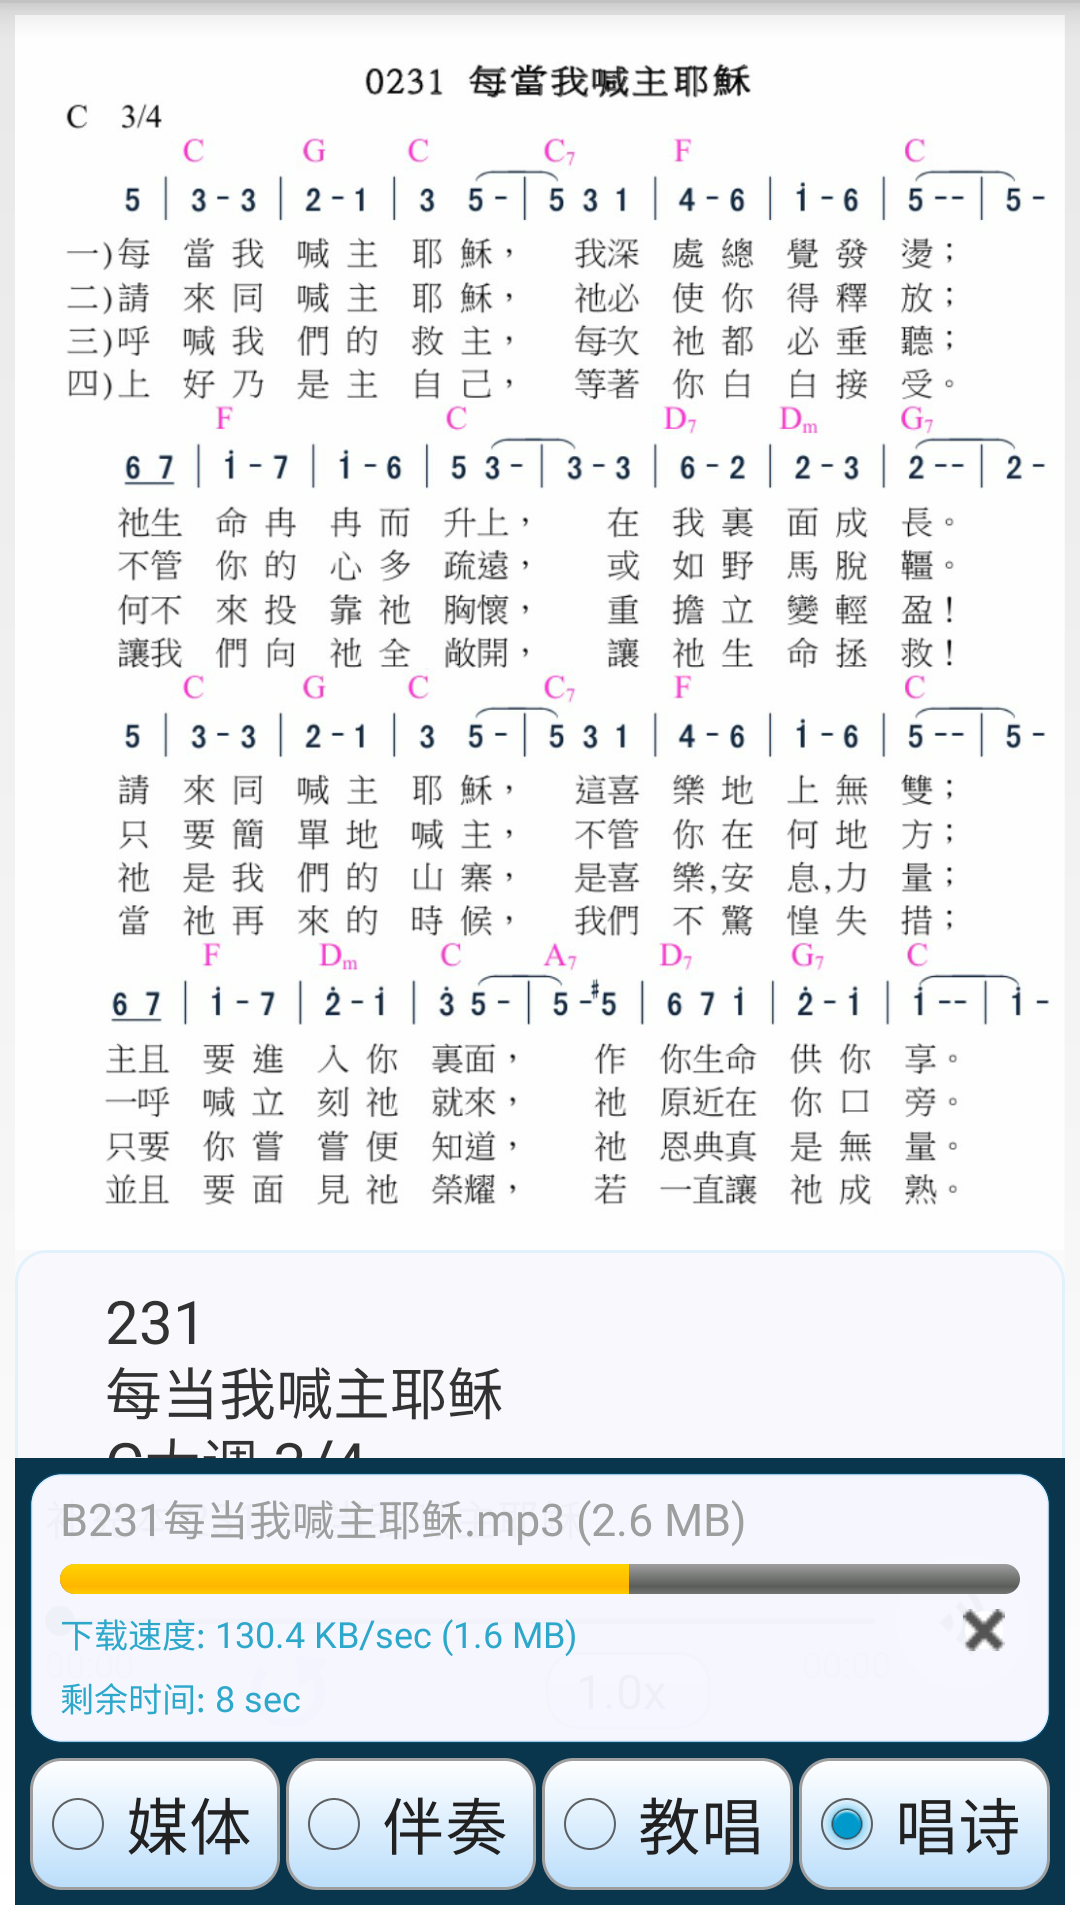
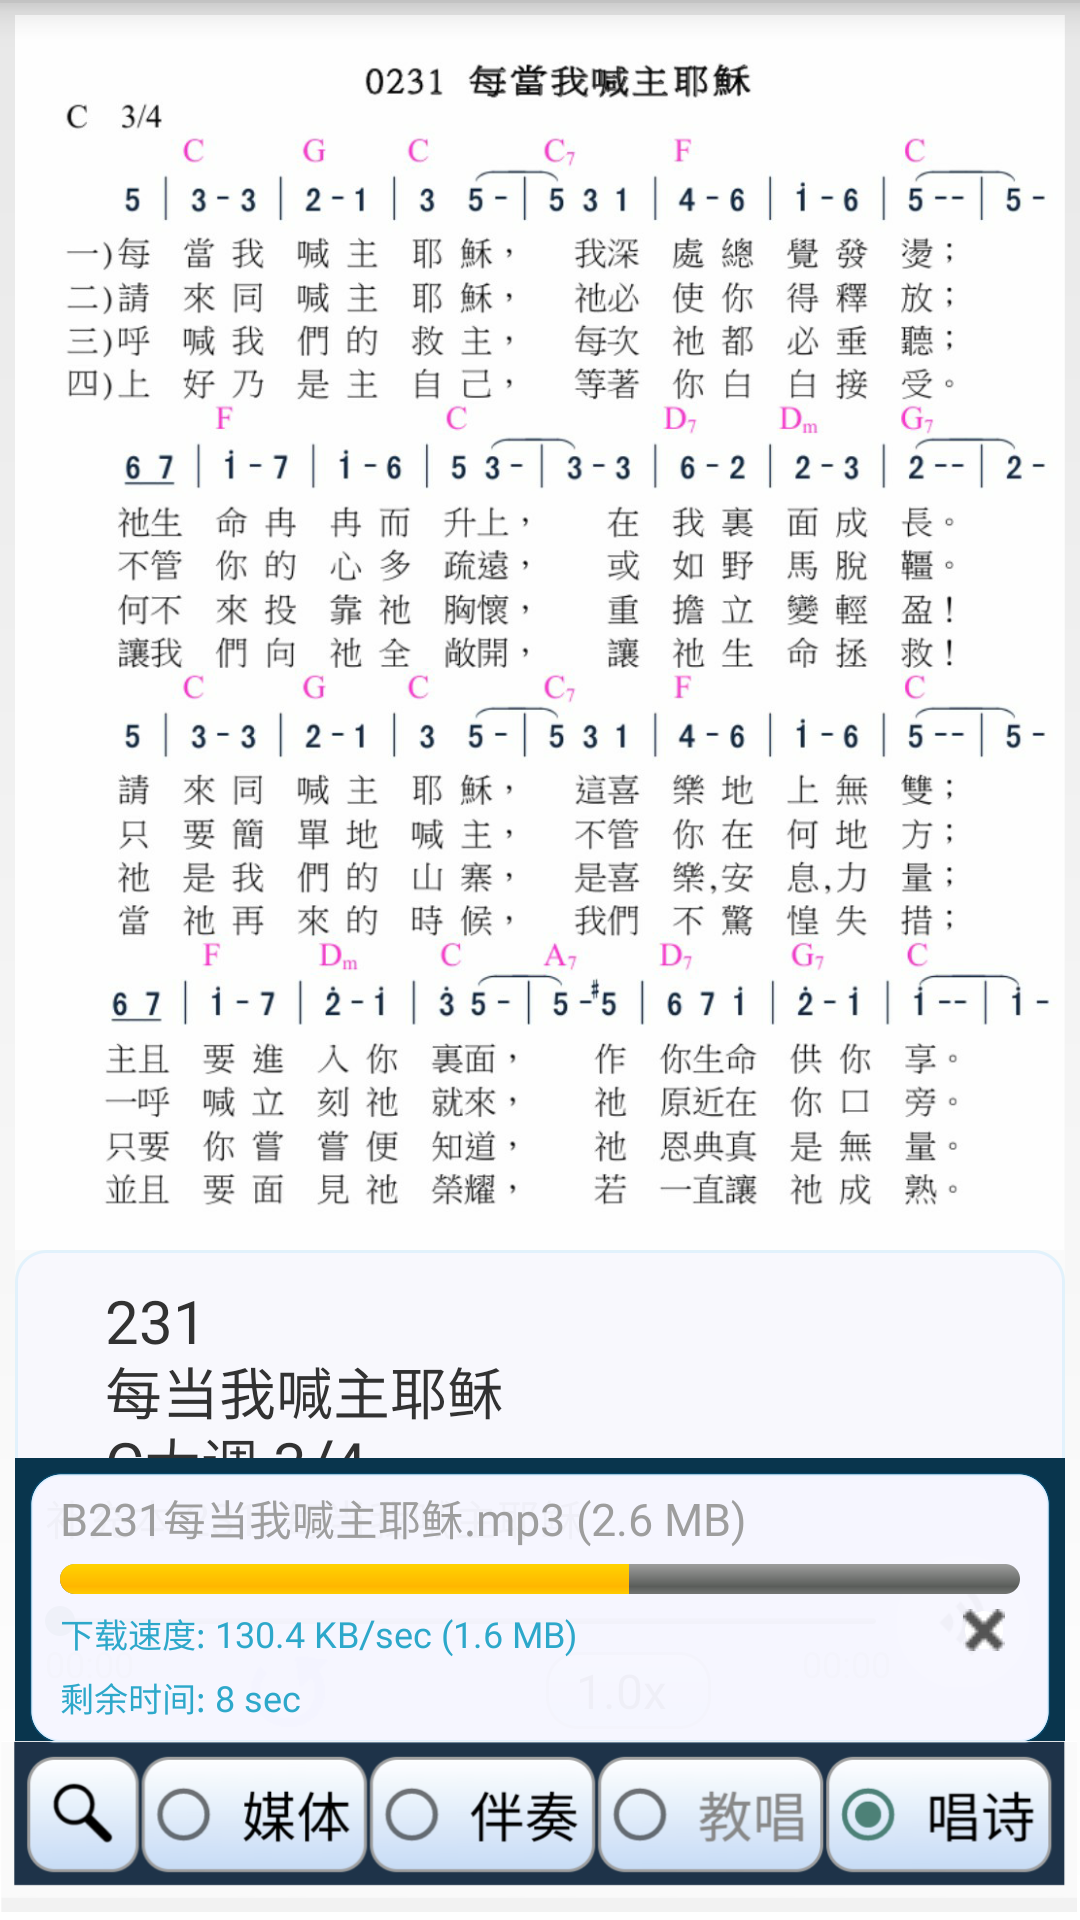
update info per v1.7.1 release

Changed region(s): [[0.0, 0.9062, 1.0, 1.0]]

diff --git a/hymnchtv/faq.html b/hymnchtv/faq.html
@@ -101,16 +101,16 @@ ul li {
        <li><a href=#hymnch_0030>[20201220] <b>Hymn Category</b> and <b>Content Search</b> result display</a></li>
      </ul>
      <ul>
-       <li><a href=#hymnch_0040>[20201222] Hymn lyrics and media player UI interface</a></li>
+       <li><a href=#hymnch_0040>[20220105] Hymn lyrics and media player UI interface</a></li>
      </ul>
      <ul>
-       <li><a href=#hymnch_0050>[20201229] Hymn media player UI interface, control and playback operations</a></li>
+       <li><a href=#hymnch_0050>[20220105] Hymn media player UI interface, control and playback operations</a></li>
      </ul>
      <ul>
        <li><a href=#hymnch_0060>[20201231] Hymn media storage and selection algorithm for playback</a></li>
      </ul>
      <ul>
-       <li><a href=#hymnch_0070>[20210801] User defined media configuration</a></li>
+       <li><a href=#hymnch_0070>[20220105] User defined media configuration</a></li>
      </ul>
      <ul>
        <li><a href=#hymnch_0080>[20210801] User defined media database configuration</a></li>
@@ -212,7 +212,7 @@ ul li {
    </div>
 
    <span id='hymnch_0040'></span>
-   <div class='blueText'>[20201222] Hymn lyrics and media player UI interface <a href=#content>{ Content }</a></div>
+   <div class='blueText'>[20220105] Hymn lyrics and media player UI interface <a href=#content>{ Content }</a></div>
    <div class='innerText'><image src="./img/11.hymnchtv_context_menu.png" align="right" width="25%" style="margin:5px 0px 20px 15px"/></div>
    <div class='innerText'>The screenshot on the right shows the hymn info display page after user has selected
      the desired HymnNo and HymnType. The window displays the actual hymn lyrics score, and the lyrics text just below
@@ -223,10 +223,14 @@ ul li {
        <li><b>默认显示播放条</b>: Always shows the Media Player UI interface on entry.</li>
        <li><b>默认隐藏播放条</b>: Always hides the Media Player UI interface on entry.</li>
        <li><b>显示/隐藏播放条</b>: Toggle to show/hide the Media Player UI interface.</li>
+       <li><b>歌词文字加大</b>: Click to increase the lyrics font size. New font size setting is saved and unique for
+         portrait and landscape, but applicable to all other hymnn titles.</li>
+       <li><b>歌词文字减小</b>:  Click to decrease the lyrics font size. New font size setting is saved and unique for
+         portrait and landscape, but applicable to all other hymnn titles.</li>
        <li><b>英文歌词</b>: This option is available only if the user selected HymnNo has an associated lyrics in English.
          Click on this option item opens the web page linked to the English lyrics. Press <b>BackKey</b> to go back.</li>
        <li><b>帮助</b>: clicks on this option item, hymnchtv will display the help content for:
-         <a href=#hymnch_0050>[20201222] Hymn media player UI interface, control and playback operations</a></li>
+         <a href=#hymnch_0050>Hymn media player UI interface, control and playback operations</a></li>
        <li><b>主页</b>: Returns user to the hymnchtv main UI page, or the Hymn Category selection page.</li>
      </ul>
      you may copy text diplays in lyrics text content. To do this, double quick clicks on the desired text location; 
@@ -234,17 +238,35 @@ ul li {
    </div>
 
    <span id='hymnch_0050'></span>
-   <div class='blueText'>[20201229] Hymn media player UI interface, control and playback operations <a href=#content>{ Content }</a></div>
+   <div class='blueText'>[20220105] Hymn media player UI interface, control and playback operations <a href=#content>{ Content }</a></div>
    <div class='innerText'>Beside showing the hymn lyrics of the user selected HymnNo, Hymnchtv allows the playback of the
      media content of the user selected HymnNo. Below lists the various hymn media available for the playback.
      <ul>
        <div class='innerText'><image src="./img/hymnchtv_media_player_ui.png" align="right" width="25%" style="margin:5px 0px 20px 15px"/></div>
+       <li><b>搜索</b>: Search the relevant contents for the user selected HymnNo per the button actions below:<br/></li>
+         <ul>
+           <li><b>singleTap</b> to perform hymn info search via qq.com; Will show the QQ main page if none found. You may
+           then navigate to the required hymn title for viewing, or share the link with hymnchtv for later retrieval. 
+           See also <a href=#hymnch_0070>User defined media configuration</a></li>
+           <li><b>longPress</b> to perform hymn info search via youtube.com</li>
+           <li><b>DoubleTap</b> to perform hymn info search via google.com</li>
+           <li>Note: The user selected HymnNo info is also copied to the clipboard. You may paste this clipboard
+             text into any of your preferred search engine to perform addtional content searching.</li>
+         </ul>
        <li><b>媒体</b>: User defined media contents; these may include video, audio and youtube/internet media url links.
-         The button text grayed out when there is no user media content defined in the database.</li>
+         Pending on the media type for video content, the player used for playback can either be exoplayer or youtube
+         player as shown on the right. The button text greyed out when there is no user media content defined in the
+         database.<br />
+         Note: LongPress on this button to show QQ-info main page; allowing user to enter QQ main page in case
+         the <b>搜索</b> failed.</li>
+       <div class='innerText'><image border="2px solid blue" src="./img/hymnchtv_media_player_youtube.png" align="right" width="25%" style="margin:5px 0px 20px 15px"/></div>
        <li><b>伴奏</b>: Hymn accompany music only media playback. The playback media can be using embedded midi files or
-         downloaded from the predefined site.</li>
-       <li><b>教唱</b>: Hymn singing practice. Currently this is only available for 大本诗歌 DaBen HymnType.</li>
-       <li><b>唱诗</b>: Hymn singing music with lyrics.</li>
+         downloaded from the predefined site. The button text greyed out when there is no user media content defined
+         in the database.</li>
+       <li><b>教唱</b>: Hymn singing practice. Currently this is only available for 大本诗歌 DaBen HymnType. The button
+         text greyed out when there is no user media content defined in the database.</li>
+       <li><b>唱诗</b>: Hymn singing music with lyrics. The button text greyed out when there is no user media content
+         defined in the database.</li>
        <li><b>Repeat/Loop Count</b>: Disable/Enable repeat playback with user defined loop count.</li>
        <li><b>Playback speed</b>: Variable playback speed. The available playback speed varies from 0.6x~1.4x of the
          orignal hymn tempo.</li>
@@ -327,7 +349,7 @@ ul li {
    </div>
 
    <span id='hymnch_0070'></span>
-   <div class='blueText'>[20210801] User defined media configuration <a href=#content>{ Content }</a></div>
+   <div class='blueText'>[20220105] User defined media configuration <a href=#content>{ Content }</a></div>
    <div class='innerText'>Hymnchtv allows user to define a given media content playback to be associated with a
      HymnType/MediaType/HymnNo. The media content can either be a local saved medium file, an url link of an online
      audio/video media address, including the youtube shared link; the url link can also be a downloadable link of 
@@ -371,7 +393,9 @@ ul li {
        <li>Start the youtube media playback.</li>
        <li>Click on the youtube <b>Share</b> option. This should be available just below the media player UI.</li>
        <li>Android launches the <b>Share</b> sheet UI as shown on the right; it presents all the applications that
-         support android <b>Share</b> object.</li>
+         support android <b>Share</b> object.<br />
+         Note: Some android browsers may not list all the share applications e.g. Chrome; Just clear the android app
+         default and select another web browser that supports the full file sharing.</li>
        <li>Click on the hymnchtv app icon.</li>
        <li>The hymnchtv user media config window will be opened with the required youtube url link pasted in <b>媒体链接</b>
          media url link field.</li>
@@ -382,7 +406,7 @@ ul li {
      </ul>
     <b>Normal web media content url link association</b>
      <ul>
-       <li>Using a browser e.g. chrome, open the site where your desired media contents reside.</li>
+       <li>Using a browser e.g. Google, open the site where your desired media contents reside.</li>
        <li>Click and hold on the desired item object; a pop up window appears showing all the available options for
          the selected item.</li>
        <li>If the option <b>Share link</b> is available; just select this option. Then the rest of the operation will
@@ -421,7 +445,10 @@ ul li {
      <div class='innerText'><image src="./img/hymnchtv_share_with.png" align="right" width="25%" style="margin:5px 0px 20px 15px"/></div>
      <ul>
        <li>For url link sharing without an actual media content, just copy the whole text string of the link.
-       e.g. hymn_bb,336,0,HYMN_MEDIA,https://youtu.be/dNHe_ELI7NU,null</li>
+       e.g. hymn_bb,336,0,HYMN_MEDIA,https://youtu.be/dNHe_ELI7NU,null.<br />
+       If your chat application supports text sharing, just share the text with hymnchtv; then the next two steps are
+       not required anymore. 
+      </li>
        <li>Lauch hymnchtv app, then goes to <b>User media configuration</b> page.</li>
        <li>Long click on the <b>媒体链接</b> field entry, and select <b>Paste</b> option.</li>
        <li>Click the <b>加添</b> button to add/save the url link into the database.</li><br/>
@@ -432,8 +459,9 @@ ul li {
        <li>Then made a copy of the url link text, paste and save as before.
          e.g. hymn_bb,134,0,HYMN_MEDIA,null, /storage/emulated/0/Download/hymnchtv/hymn_bb/media_media/ChHymns-0134.mp3</li>
 
-       <li><b>Note:</b> For the imported link text association, user is not required to enter any of the info below i.e.
-         HymnType/MediaType/HymnNo etc. Hymnchtv will extract all these info from the pasted link text.</li>
+       <li><b>Note:</b> For the imported link text association that was generated by hymnchtv, user is not required
+         to enter any of the info below i.e. HymnType/MediaType/HymnNo etc. Hymnchtv will extract all these info
+         from the pasted link text.</li>
      </ul>
 
      <li><image src="./img/ic_share.png" width="24" height="24" align="middle" style="margin:5px 5px"/>This button allows
@@ -470,8 +498,11 @@ ul li {
          media record in the database. Click the <b>退出</b> button to close the media record listing window.</li>
        <li><b>数库导入</b>: Import all the media record contents as defined in the exported txt file into the hymnchtv database.
          Each media record will be saved in the respective database per the defined HymnType of the media record.</li>
-       <li><b>覆盖现有记录</b> Check this option if you want hymnchtv to overwrite any existing media record in the
+       <li><b>覆盖现有记录</b>: Check this option if you want hymnchtv to overwrite any existing media record in the
          database during the database import process.</li>
+         <li><b>QQ&#x2B07;</b>: Click this button to create all the QQ hymn info links, the process may take some time
+         pending on the network condition; the links are used in the QQ-info search in
+         <a href=#hymnch_0050>Hymn media player UI interface, control and playback operations</a></li>
        <li><image src="./img/ic_folder.png" width="24" height="24" align="middle" style="margin:5px 5px"/>
          Use the Folder explorer to select the desired exported text file for import into the database. After selected
          the desired export file, on returning to media configuration page; the selected text file will be opened in

diff --git a/hymnchtv/index.html b/hymnchtv/index.html
@@ -69,6 +69,7 @@
       <li>以最大允许的屏幕大小，同时显示诗歌乐谱和歌词文本</li>
       <li>手机横向模式时，媒体播放器界面自动隐藏；乐谱和歌词文本，显示自动加大150%，易于阅读</li>
       <li>媒体播放类别：用户定义媒体，伴奏，教唱，唱诗</li>
+      <li>支持QQ媒体链接、YouTube、谷歌搜索功能</li>
       <li>用户定义媒体内容的支持，即每个诗歌标题的视频和音频以进行播放</li>
       <li>支持安卓共享以添加媒体内容，或来自第三方应用程序的网址链接作为用户定义的媒体内容</li>
       <li>允许导出保存中的用户定义媒体内容，以通过导入与其他安卓设备共享</li>
@@ -76,7 +77,7 @@
       <li>支持用户定义的媒体列表查看器和嵌入式文本编辑器，以简化导出和导入用户定义的媒体操作</li>
       <li>包括嵌入式视频媒体播放器，用于播放用户定义的视频媒体和其他优酷网址</li>
       <li>开发新的音频媒体播放器用户界面。给用户最大的控制权</li>
-      <li>可调媒体播放速度：0.7x〜1.3x；和可选重复次数播放</li>
+      <li>可调媒体播放速度：0.6x〜1.4x；和可选重复次数播放</li>
       <li>网络媒体下载仅一次；内部存储，供以后播放</li>
       <li>媒体播放同步于用户新选诗歌编号，无需返回主页</li>
       <li>诗歌媒体播放以当前状态继续，直到歌曲结束；然后再同步用户新选诗歌编号</li>
